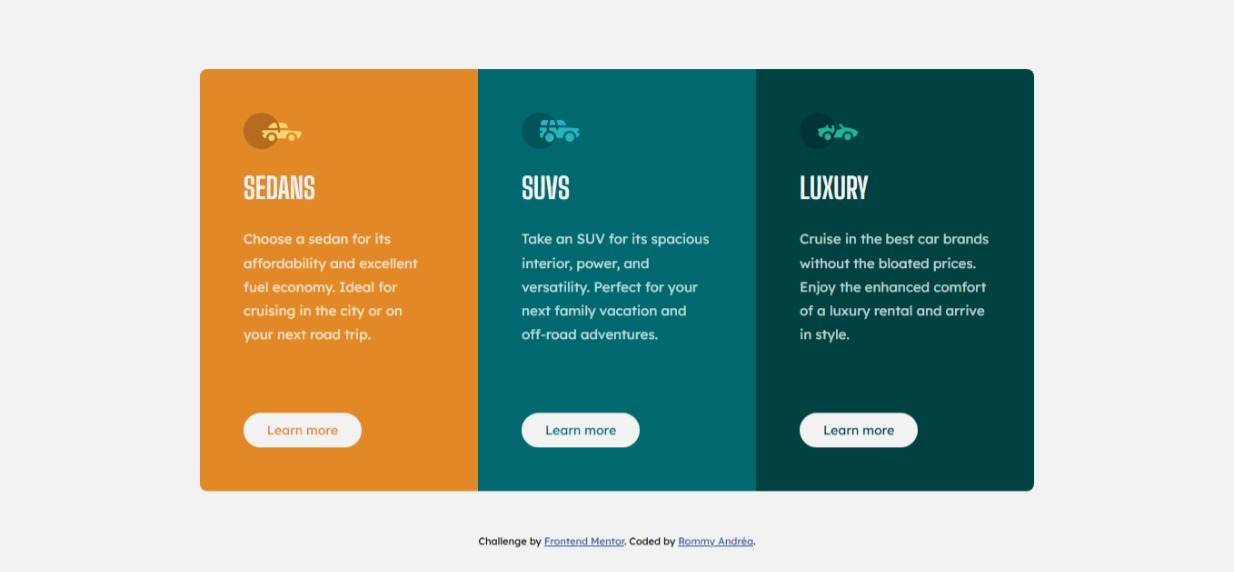
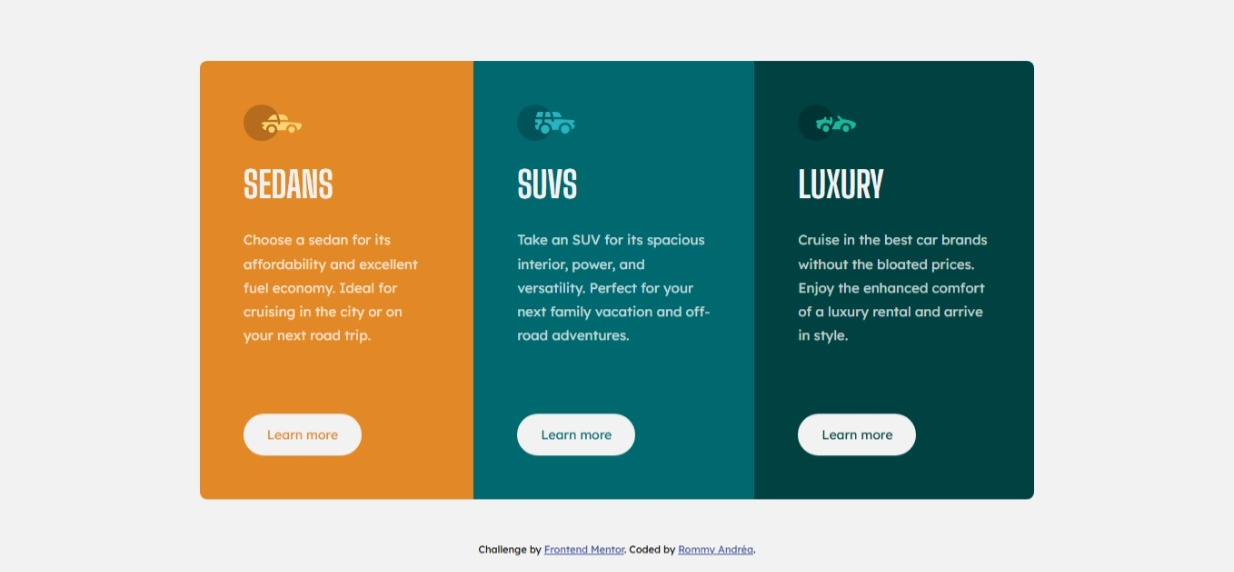
rectification

diff --git a/styles.css b/styles.css
@@ -22,7 +22,6 @@ body {
 
 .card div {
     display: flex;
-    flex: 1;
     flex-direction: column;
     align-items: flex-start;
     padding: 3rem;
@@ -49,7 +48,7 @@ body {
     color: hsl(0, 0%, 95%);
     font-family: "Big Shoulders Display", sans-serif;
     font-weight: 700;
-    font-size: 2rem;
+    font-size: 2.5rem;
 }
 
 .card div p {
@@ -65,7 +64,7 @@ body {
     font-size: 0.875rem;
     font-weight: 400;
     border: 0.125rem solid hsl(0, 0%, 95%);
-    padding: 0.5rem 1.5rem;
+    padding: 0.75rem 1.5rem;
     border-radius: 1.5rem;
     transition: background-color 0.3s ease, color 0.3s ease;
 }

diff --git a/README.md b/README.md
@@ -8,7 +8,7 @@ This is my solution to the [3-column preview card component challenge on Fronten
 
 ## 🔗 Live site
 
-👉 [Click here to view the live site](https://rommyandrea.github.io/3-column-preview-card/)
+👉 [Click here to view the live site](https://rommyandrea.github.io/)
 
 ## 🛠 Built with
 
